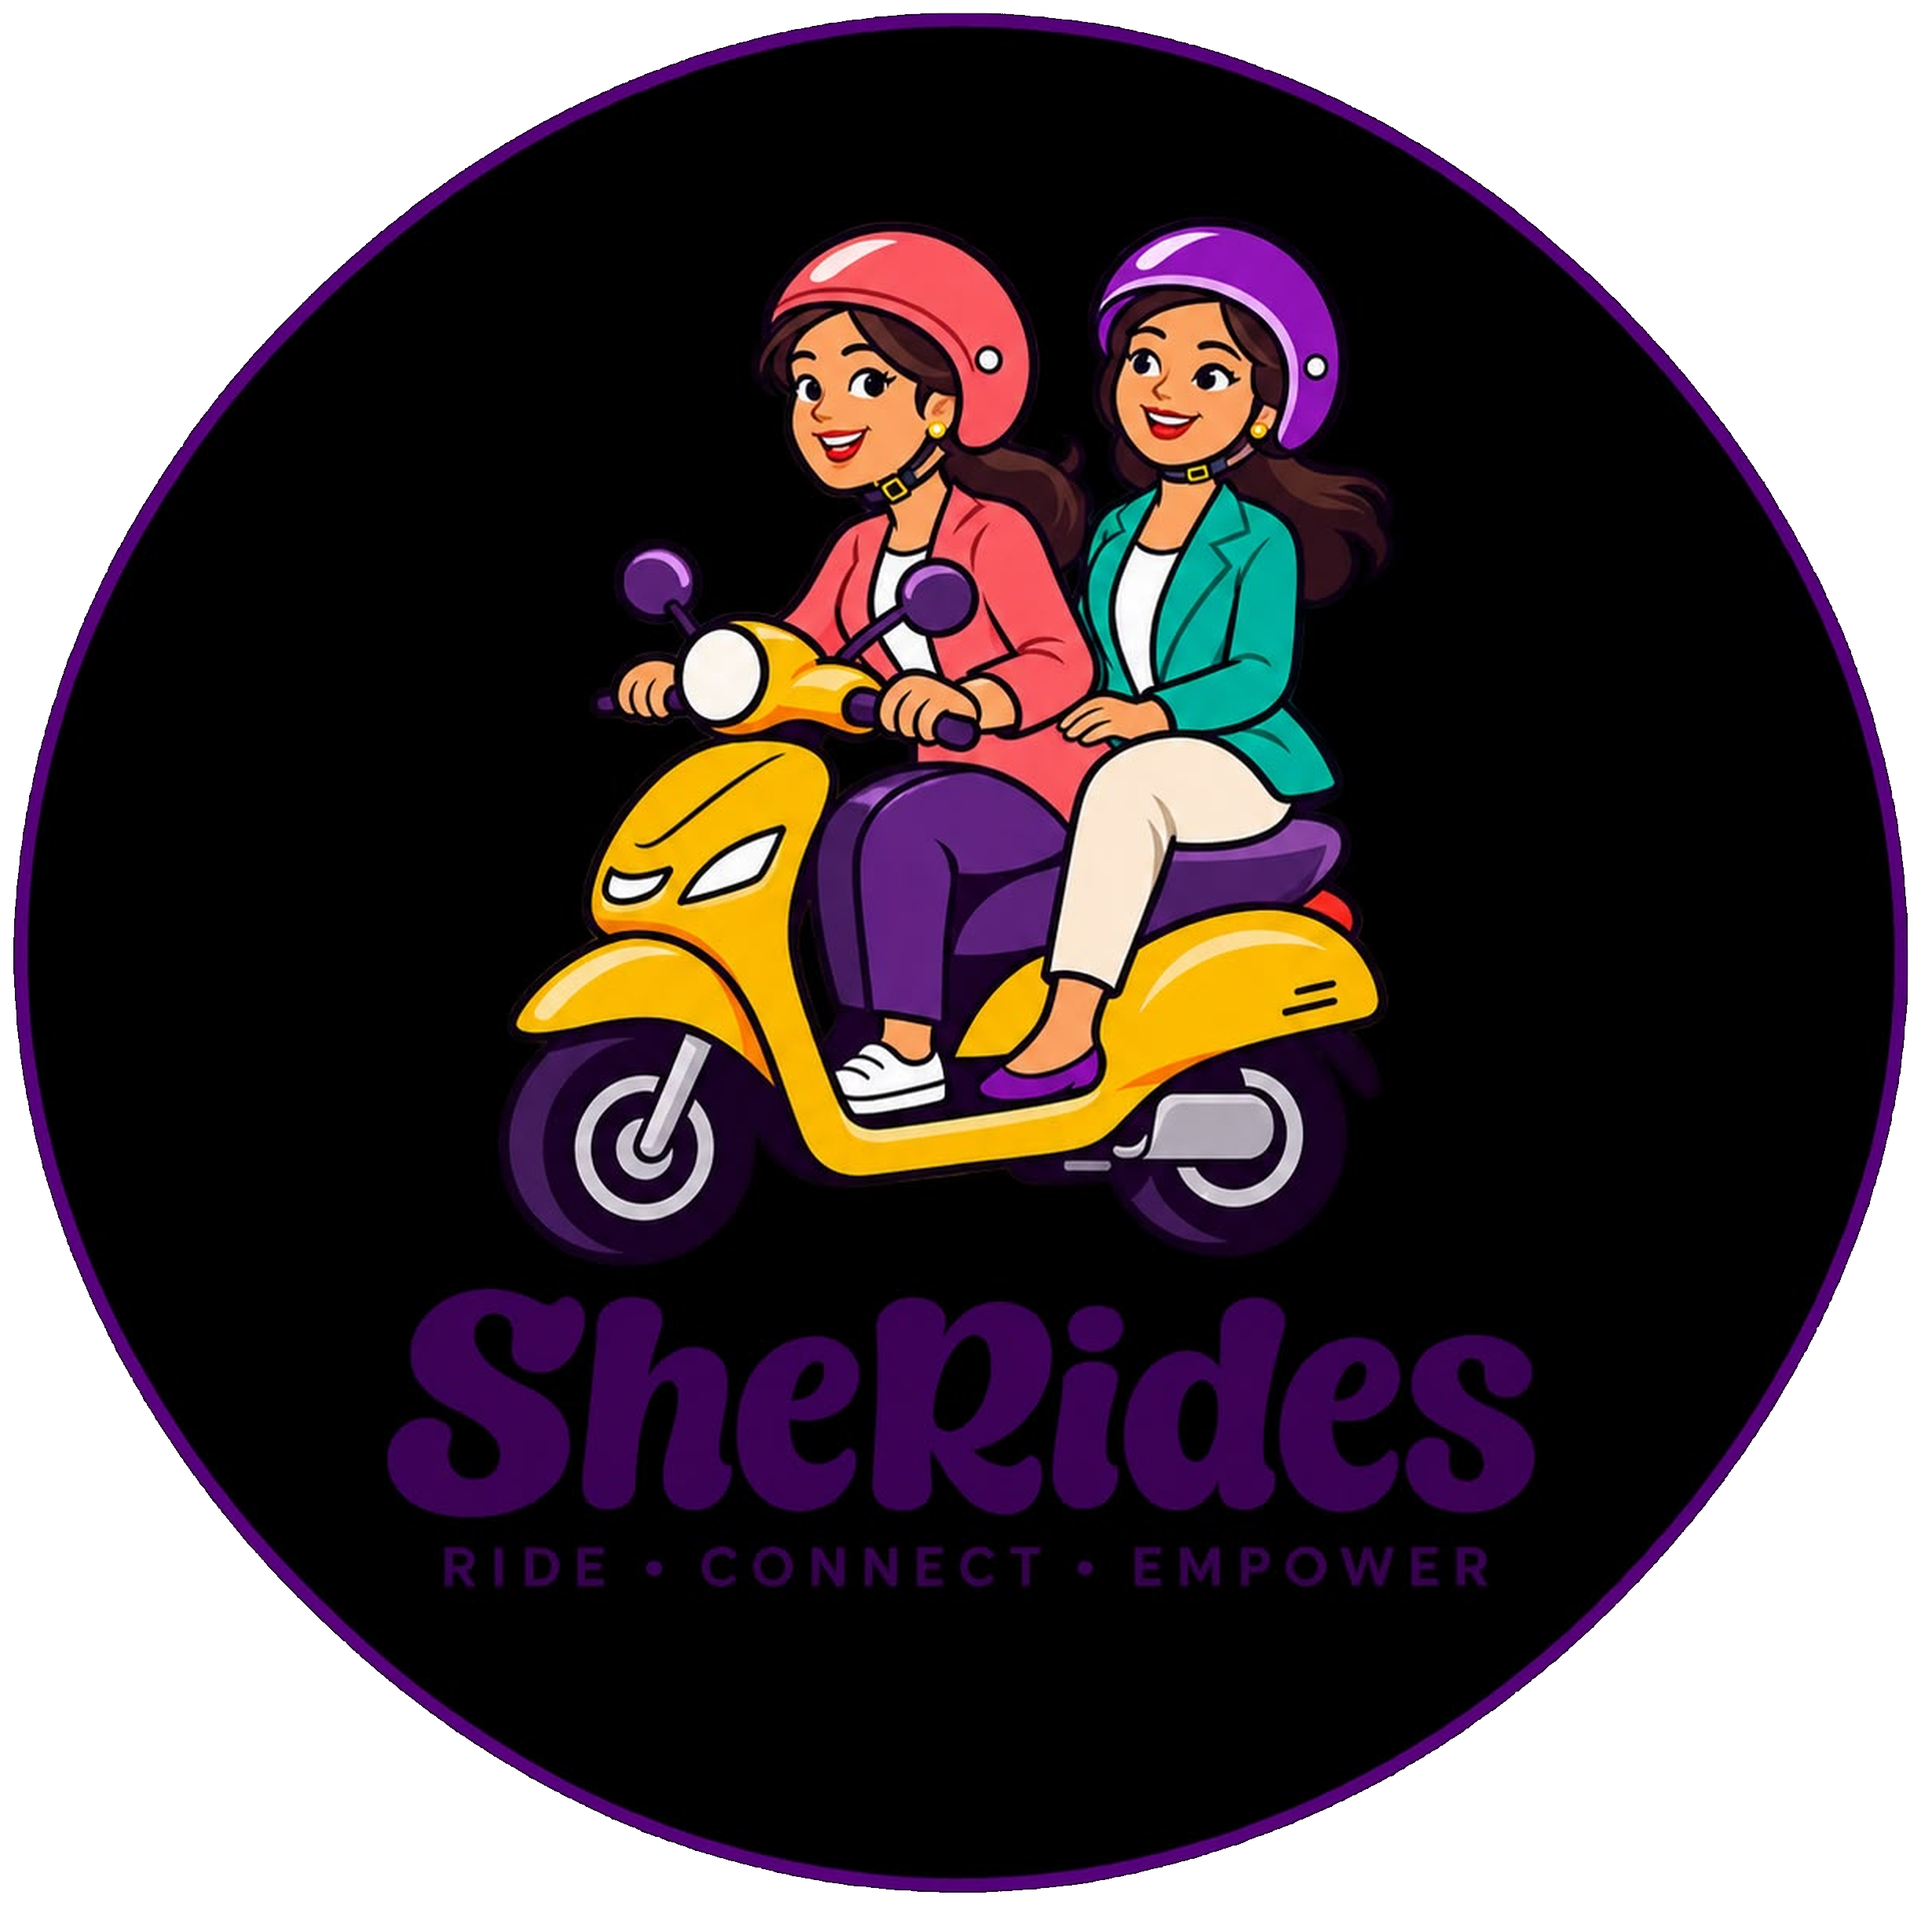
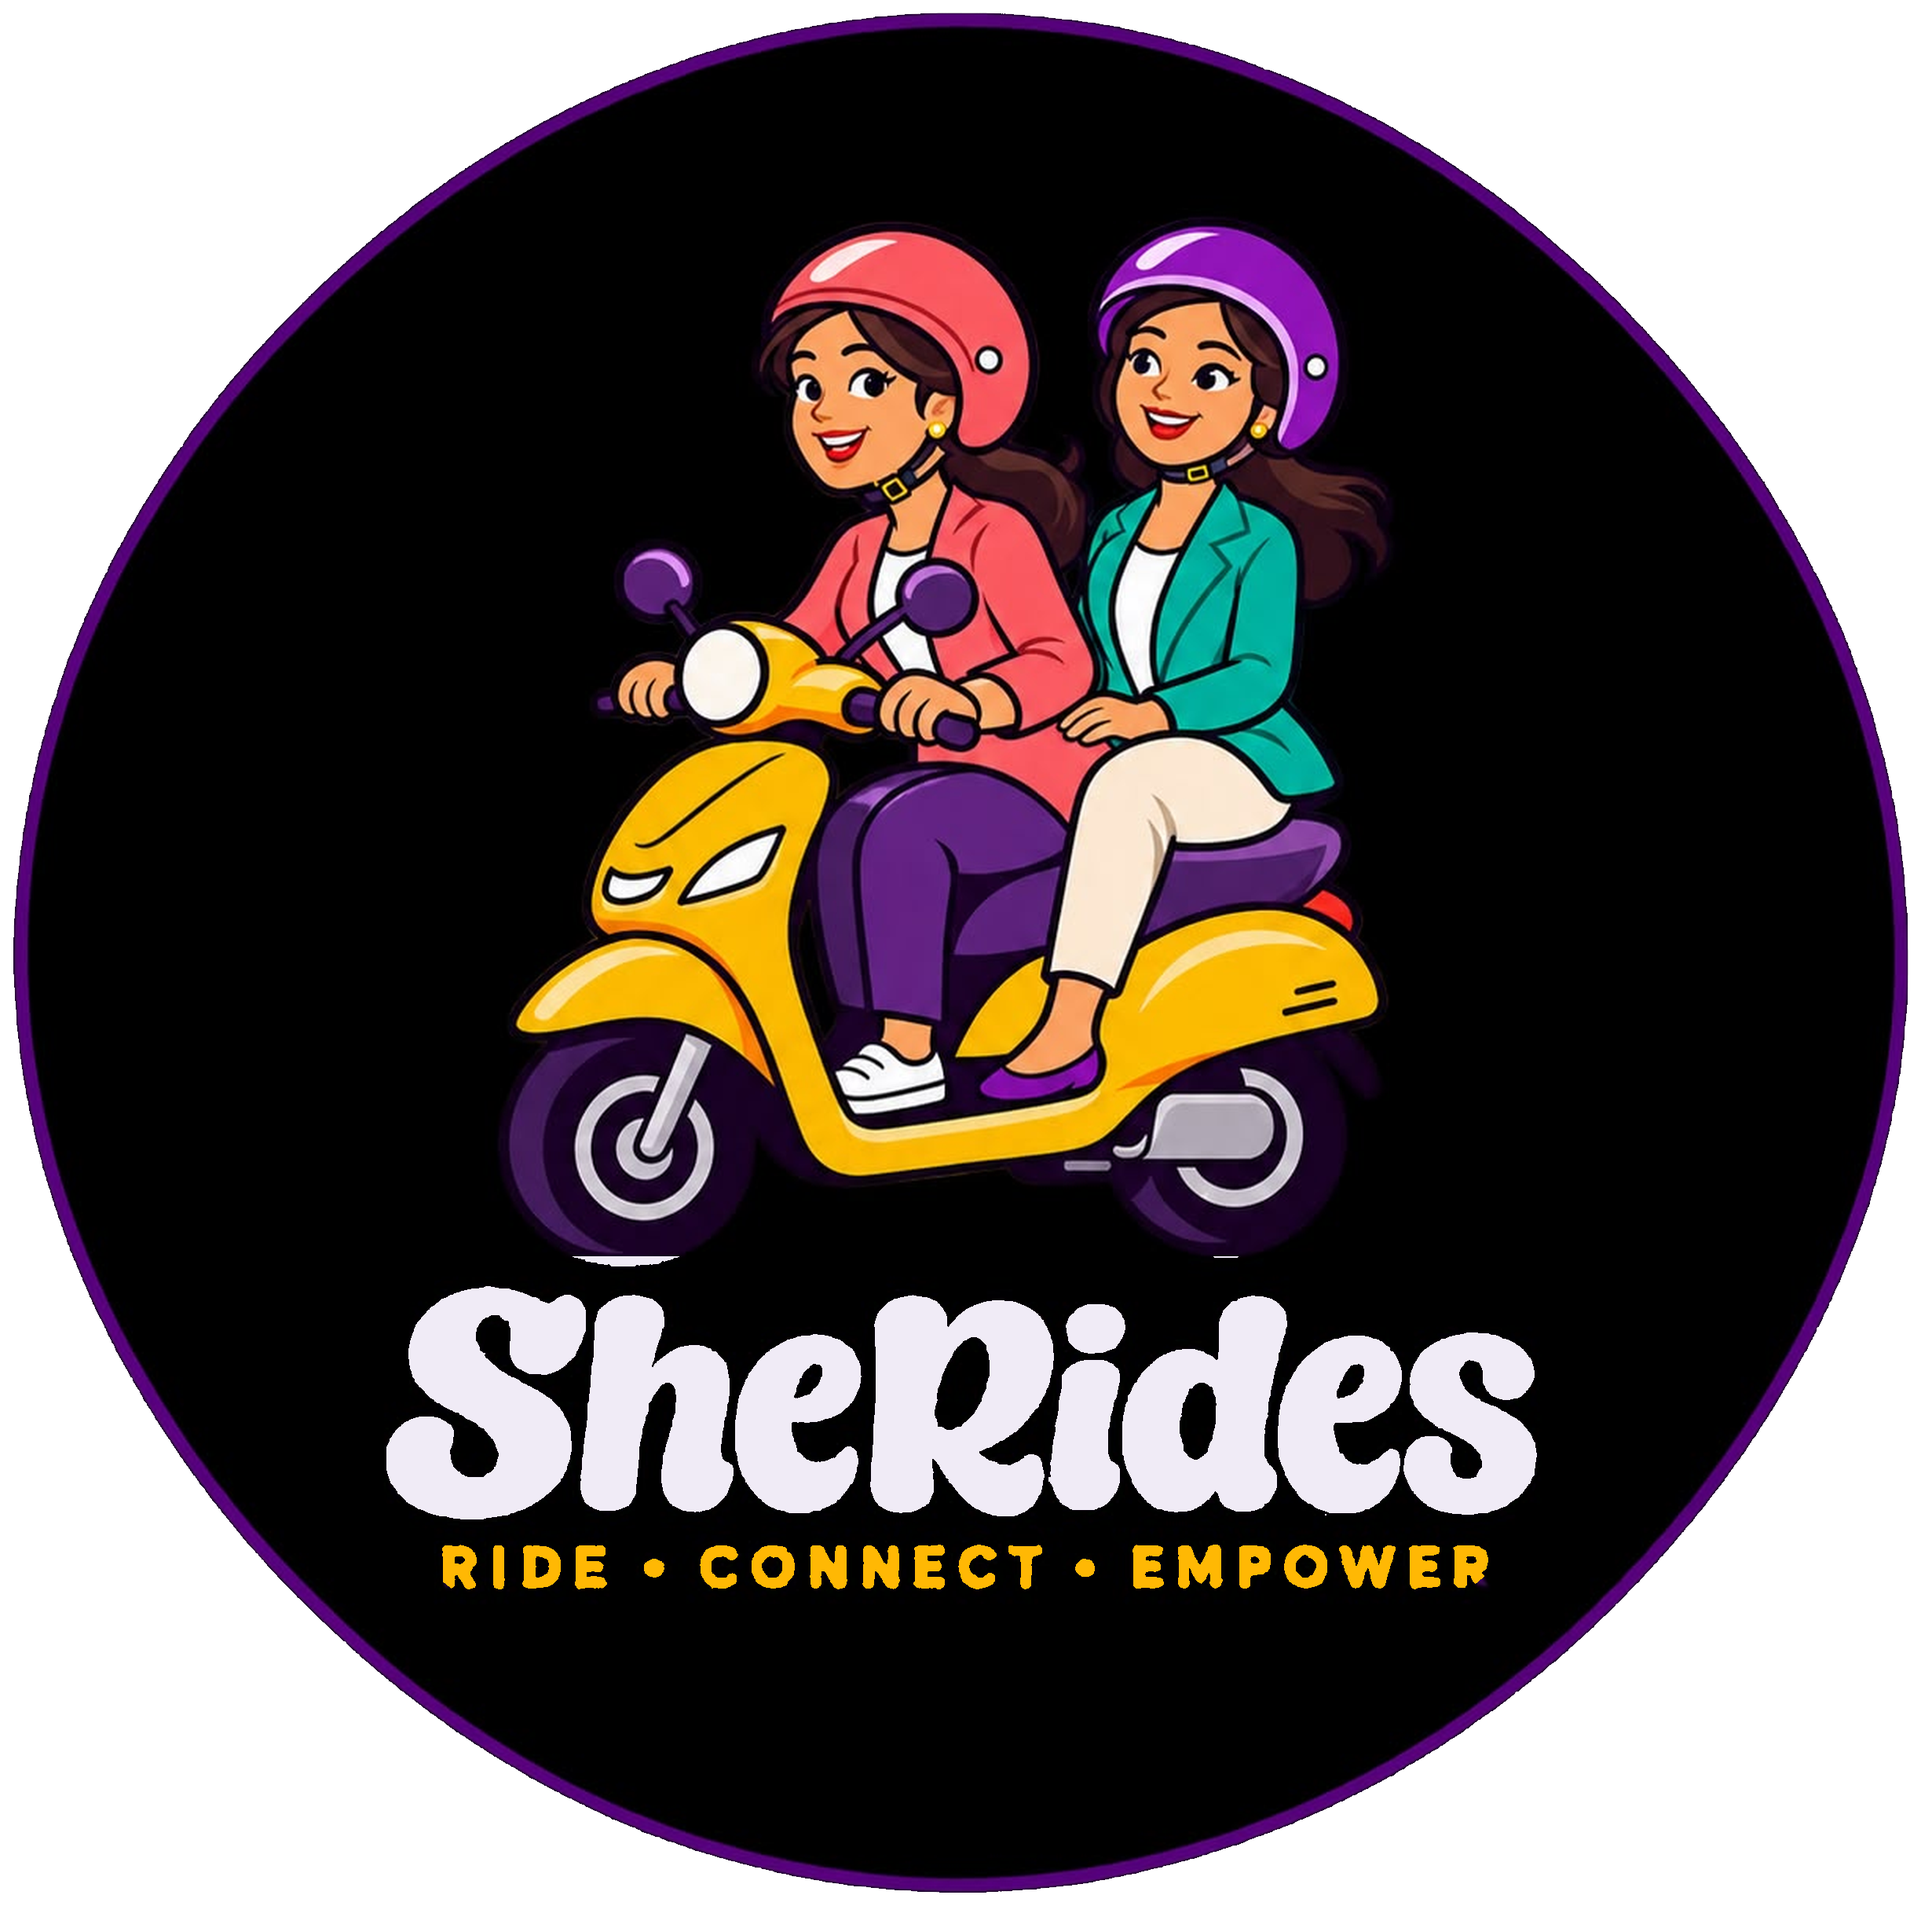
Lighten the SheRides wordmark on dark backgrounds (#89)
* Lighten the logo wordmark on dark backgrounds.

Recolor only the SheRides wordmark and tagline so they stay readable on Night Ink, and keep the original purple type on light backgrounds.

* Remove the brand-script bytecode cache.

* Ignore Python bytecode caches.

---------

Changed region(s): [[0.1864, 0.6492, 0.8078, 0.8347]]

diff --git a/lib/brand-contrast.test.ts b/lib/brand-contrast.test.ts
@@ -29,4 +29,7 @@ test("coral buttons use deep purple text at WCAG AA", () => {
   assert.ok(contrast("#460377", "#F0EBF6") >= 4.5);
   assert.ok(contrast("#7E1CA8", "#F0EBF6") >= 4.5);
   assert.ok(contrast("#05BAA4", "#1B1324") >= 4.5);
+  // Dark-logo text colors: Lavender Mist wordmark and Scooter Yellow tagline on Night Ink.
+  assert.ok(contrast("#F0EBF6", "#1B1324") >= 4.5);
+  assert.ok(contrast("#FFB804", "#1B1324") >= 4.5);
 });

diff --git a/lib/brand-assets.ts b/lib/brand-assets.ts
@@ -1,6 +1,8 @@
 /**
  * 2× PNG masters. The mark is the official curly wordmark cropped from the
  * tagline lockups (variants 4 and 5). Variant 1 (bold wordmark) is not used.
+ * Dark files keep the illustration and use a light wordmark plus yellow tagline
+ * so the type stays readable on Night Ink. Light files keep the original purple type.
  */
 export const brandAssets = {
   mark: {

diff --git a/scripts/build-brand-assets.py b/scripts/build-brand-assets.py
@@ -32,7 +32,10 @@ SOURCES = {
 PURPLE = (76, 29, 149, 255)  # refined after sampling if needed
 PINK = (244, 184, 212, 255)
 YELLOW = (255, 196, 64, 255)
-INK = (19, 16, 28, 255)
+INK = (27, 19, 36, 255)  # Night Ink #1B1324
+# Light text for logos that sit on Night Ink. Illustration pixels are not recolored.
+WORDMARK_ON_DARK = (240, 235, 246)  # Lavender Mist #F0EBF6
+TAGLINE_ON_DARK = (255, 184, 4)  # Scooter Yellow #FFB804
 
 
 def upscale(im: Image.Image, factor: int = 2) -> Image.Image:
@@ -146,6 +149,66 @@ def opaque_launcher(badge: Image.Image, size: int) -> Image.Image:
     return canvas.convert("RGB")
 
 
+def content_bands(alpha: np.ndarray) -> list[tuple[int, int]]:
+    content = (alpha > 30).sum(axis=1) > 12
+    bands: list[tuple[int, int]] = []
+    start = None
+    for y, on in enumerate(content):
+        if on and start is None:
+            start = y
+        elif not on and start is not None:
+            bands.append((start, y - 1))
+            start = None
+    if start is not None:
+        bands.append((start, len(content) - 1))
+    return bands
+
+
+def paint_text_band(arr: np.ndarray, y0: int, y1: int, color: tuple[int, int, int]) -> None:
+    """Replace RGB of existing text pixels. Alpha stays so the edges stay sharp."""
+    band = arr[y0 : y1 + 1]
+    mask = band[:, :, 3] > 0
+    band[:, :, 0][mask] = color[0]
+    band[:, :, 1][mask] = color[1]
+    band[:, :, 2][mask] = color[2]
+
+
+def recolor_stacked_text(im: Image.Image) -> Image.Image:
+    """Lockup and mark: the lower content bands are the wordmark and tagline."""
+    arr = np.array(im.convert("RGBA"))
+    bands = content_bands(arr[:, :, 3])
+    if len(bands) >= 3:
+        paint_text_band(arr, *bands[-2], WORDMARK_ON_DARK)
+        paint_text_band(arr, *bands[-1], TAGLINE_ON_DARK)
+    elif len(bands) == 2:
+        paint_text_band(arr, *bands[-1], WORDMARK_ON_DARK)
+    return Image.fromarray(arr, "RGBA")
+
+
+def recolor_badge_text(im: Image.Image) -> Image.Image:
+    """Dark badge: recolor only the wordmark and tagline inside the ring."""
+    arr = np.array(im.convert("RGBA"))
+    alpha = arr[:, :, 3]
+    ys, xs = np.where(alpha > 128)
+    if len(xs) == 0:
+        return im
+    cx = (xs.min() + xs.max()) / 2
+    cy = (ys.min() + ys.max()) / 2
+    rad = (xs.max() - xs.min()) / 2
+    height, width = alpha.shape
+    yy, xx = np.mgrid[0:height, 0:width]
+    inside = np.hypot(xx - cx, yy - cy) < rad * 0.86
+    red, green, blue = arr[:, :, 0].astype(np.int16), arr[:, :, 1].astype(np.int16), arr[:, :, 2].astype(np.int16)
+    purple_ink = (alpha > 16) & (green < 40) & (blue + 8 >= red) & (np.maximum(red, blue) > 10) & (red < 140)
+    wordmark = inside & purple_ink & (yy > cy + rad * 0.32) & (yy < cy + rad * 0.62)
+    tagline = inside & purple_ink & (yy >= cy + rad * 0.62) & (yy < cy + rad * 0.78)
+    for mask, color in ((wordmark, WORDMARK_ON_DARK), (tagline, TAGLINE_ON_DARK)):
+        arr[:, :, 0][mask] = color[0]
+        arr[:, :, 1][mask] = color[1]
+        arr[:, :, 2][mask] = color[2]
+    return Image.fromarray(arr, "RGBA")
+
+
 def open_graph(lockup: Image.Image) -> Image.Image:
     w, h = 1200, 630
     canvas = Image.new("RGBA", (w, h), INK)
@@ -193,7 +256,12 @@ def main() -> None:
         save_pair(cut, BRAND / f"{stem}.png")
         built[stem] = cut
 
-    save_pair(drop_tagline(built["lockup-on-dark"]), BRAND / "mark-on-dark.png")
+    # Dark surfaces need a light wordmark. Only the text bands change.
+    lockup_dark = recolor_stacked_text(built["lockup-on-dark"])
+    save_pair(lockup_dark, BRAND / "lockup-on-dark.png")
+    built["lockup-on-dark"] = lockup_dark
+    save_pair(recolor_badge_text(built["badge-on-dark"]), BRAND / "badge-on-dark.png")
+    save_pair(drop_tagline(lockup_dark), BRAND / "mark-on-dark.png")
     save_pair(drop_tagline(built["lockup-on-light"]), BRAND / "mark-on-light.png")
 
     badge = built["badge-on-light"]
